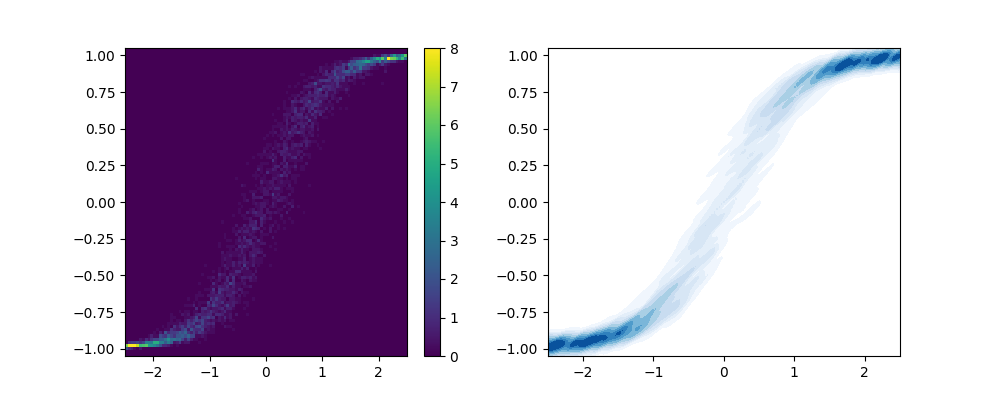
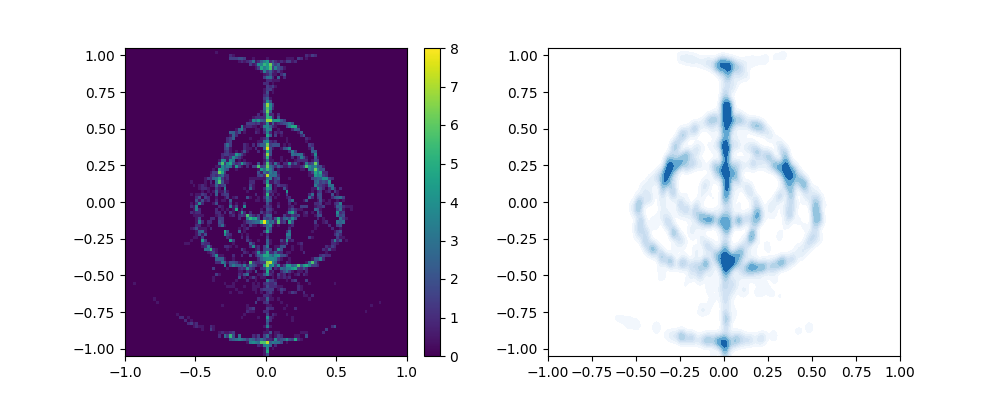
generic commit

diff --git a/scripts/transport/kvae_diffusion.py b/scripts/transport/kvae_diffusion.py
@@ -454,7 +454,7 @@ def comp_cond_kernel_transport(X_mu, Y_mu, Y_eta, Y_eta_test, X_mu_test, Y_mu_te
     param_keys = ['fit_kernel','Lambda_mean', 'X_mean',  'Lambda_var', 'X_var', 'var_eps']
     models_param_dict = {key: [] for key in param_keys}
     iters = 0
-    noise_shrink_c = np.exp(np.log(final_eps) / ((n_transports//3) - 10))
+    noise_shrink_c = np.exp(np.log(final_eps) / ((n_transports//2) - 10))
     models_param_dict['final_eps'] = final_eps
     Y_mean,Y_mean_test,Y_var,Y_var_test = np.zeros(4)
     approx = False
@@ -489,7 +489,7 @@ def comp_cond_kernel_transport(X_mu, Y_mu, Y_eta, Y_eta_test, X_mu_test, Y_mu_te
         approx = True
 
         iters = model.iters
-        if i%3 == 1:
+        if i%2 == 1:
             target_eps *= noise_shrink_c
 
         if n_transports - i < 10:
@@ -584,7 +584,7 @@ def compositional_gen(trained_models, ref_sample, target_sample, idx_dict, plot_
 def conditional_transport_exp(ref_gen, target_gen, N=4000, vmax=None, exp_name='exp', plt_range=None, bins=70,
                               process_funcs=[], N_plot=0, cond_model_trainer=comp_cond_kernel_transport,
                               final_eps=1e-2, skip_idx=0, plot_idx=[], n_transports=50, idx_dict={},
-                              plot_steps = False, reg_lambda = 1e-6, mu = 0, sigma = 1,var_eps = .1):
+                              plot_steps = False, reg_lambda = 1e-5, mu = 0, sigma = 1,var_eps = .1):
     save_dir = f'../../data/kernel_transport/{exp_name}'
     try:
         os.mkdir(save_dir)
@@ -663,7 +663,7 @@ def conditional_transport_exp(ref_gen, target_gen, N=4000, vmax=None, exp_name='
 
 def two_d_exp(ref_gen, target_gen, N=4000, plt_range=None, process_funcs=[], normal = True,
               slice_range=None, N_plot=4000, slice_vals=[], bins=70, exp_name='exp', skip_idx=1,
-              vmax=None, n_transports=60, reg_lambda=1e-6, final_eps=1e-2, plot_steps = False, var_eps = 1/3):
+              vmax=None, n_transports=60, reg_lambda=1e-5, final_eps=1e-2, plot_steps = False, var_eps = 1/3):
     save_dir = f'../../data/kernel_transport/{exp_name}'
     try:
         os.mkdir(save_dir)
@@ -844,7 +844,7 @@ def vl_exp(N=4000, Yd=18, normal=True, exp_name='kvl_exp', n_transports=60,  N_p
 
 def run():
     #arget_gen = sample_swiss_roll()
-    two_d_exp(ref_gen=sample_normal, target_gen=sample_elden_ring, N=7000, exp_name='exp', n_transports=99,
+    two_d_exp(ref_gen=sample_normal, target_gen=sample_elden_ring, N=7000, exp_name='exp', n_transports=65,
               slice_vals=[], plt_range=[[-1,1], [-1.05, 1.05]], slice_range=[-1.5, 1.5], vmax=8,
               skip_idx=1, N_plot=5000, plot_steps=False, normal=True, bins=100, var_eps=1/9)
 
